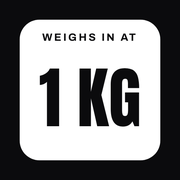
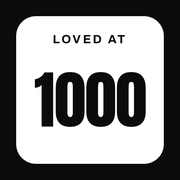
Love brand: sticker, tagline, Gros Cœur

Changed region(s): [[0.1667, 0.3611, 0.8333, 0.7222], [0.0833, 0.0833, 0.9167, 0.9167], [0.2222, 0.1667, 0.75, 0.25]]

diff --git a/fr/index.html b/fr/index.html
@@ -1,22 +1,22 @@
 <!doctype html><html lang="fr-CA"><head><meta charset="utf-8"><meta name="viewport" content="width=device-width,initial-scale=1">
-<title>Kilo — Fais-la peser.</title>
+<title>Kilo — Aime-la plus fort.</title>
 <link rel="canonical" href="https://ymatagne.github.io/kilo-landing/fr/"><link rel="alternate" hreflang="en-CA" href="https://ymatagne.github.io/kilo-landing/"><link rel="alternate" hreflang="fr-CA" href="https://ymatagne.github.io/kilo-landing/fr/"><link rel="alternate" hreflang="x-default" href="https://ymatagne.github.io/kilo-landing/">
-<meta property="og:type" content="website"><meta property="og:site_name" content="Kilo"><meta property="og:title" content="Kilo — Fais-la peser."><meta property="og:description" content="Le réseau bouffe entre chums seulement. Poste ton assiette. Fais-la peser. Rends-les jaloux."><meta property="og:image" content="https://ymatagne.github.io/kilo-landing/og-fr.png"><meta property="og:image:width" content="1200"><meta property="og:image:height" content="630"><meta property="og:image:alt" content="Kilo : Fais-la peser. Une assiette de papdi chaat avec un collant qui dit Aimé à 1180."><meta property="og:url" content="https://ymatagne.github.io/kilo-landing/fr/"><meta property="og:locale" content="fr_CA"><meta property="og:locale:alternate" content="en_CA"><meta name="twitter:card" content="summary_large_image"><meta name="twitter:image" content="https://ymatagne.github.io/kilo-landing/og-fr.png">
-<link rel="icon" href="../favicon.ico" sizes="any"><link rel="icon" type="image/png" sizes="32x32" href="../favicon-32.png"><link rel="apple-touch-icon" href="../apple-touch-icon.png"><meta name="theme-color" content="#0B0B0D"><meta name="description" content="Kilo, le réseau bouffe entre chums seulement. Poste ton assiette. Fais-la peser. Rends-les jaloux.">
+<meta property="og:type" content="website"><meta property="og:site_name" content="Kilo"><meta property="og:title" content="Kilo — Aime-la plus fort."><meta property="og:description" content="Le réseau bouffe entre chums seulement. Poste ton assiette. Aime-la plus fort. Rends-les jaloux."><meta property="og:image" content="https://ymatagne.github.io/kilo-landing/og-fr-v2.png"><meta property="og:image:width" content="1200"><meta property="og:image:height" content="630"><meta property="og:image:alt" content="Kilo : Aime-la plus fort. Une assiette de papdi chaat avec un collant qui dit Aimé à 1180."><meta property="og:url" content="https://ymatagne.github.io/kilo-landing/fr/"><meta property="og:locale" content="fr_CA"><meta property="og:locale:alternate" content="en_CA"><meta name="twitter:card" content="summary_large_image"><meta name="twitter:image" content="https://ymatagne.github.io/kilo-landing/og-fr-v2.png">
+<link rel="icon" href="../favicon.ico" sizes="any"><link rel="icon" type="image/png" sizes="32x32" href="../favicon-32.png"><link rel="apple-touch-icon" href="../apple-touch-icon.png"><meta name="theme-color" content="#0B0B0D"><meta name="description" content="Kilo, le réseau bouffe entre chums seulement. Poste ton assiette. Aime-la plus fort. Rends-les jaloux.">
 <link rel="preconnect" href="https://fonts.googleapis.com"><link rel="preconnect" href="https://fonts.gstatic.com" crossorigin>
 <link href="https://fonts.googleapis.com/css2?family=Anton&family=Archivo:wght@400;500;700&display=swap" rel="stylesheet">
 <link rel="stylesheet" href="../styles.css"></head><body>
 <a class="skip" href="#main">Passer au contenu</a>
-<header class="nav wrap"><a href="#" class="wordmark" aria-label="Accueil Kilo">Kilo <span class="sticker sm" aria-hidden="true"><small>PÈSE</small><b>1 KG</b></span></a>
+<header class="nav wrap"><a href="#" class="wordmark" aria-label="Accueil Kilo">Kilo <span class="sticker sm" aria-hidden="true"><small>AIMÉ À</small><b>1000</b></span></a>
 <div class="nav-r"><nav class="lang" aria-label="Langue"><a href="../" hreflang="en" lang="en">EN</a><a href="./" aria-current="page" hreflang="fr">FR</a></nav><a href="#join" class="btn btn-accent">Sur la liste</a></div></header>
 <main id="main">
 <section class="hero wrap">
- <div class="hero-copy"><p class="eyebrow">Réseau bouffe, entre chums seulement</p><h1>Fais-la peser.</h1>
- <p class="lede">Poste l'assiette. Fais-la peser. Rends-les jaloux.</p>
+ <div class="hero-copy"><p class="eyebrow">Réseau bouffe, entre chums seulement</p><h1>Aime-la plus&nbsp;fort.</h1>
+ <p class="lede">Poste l'assiette. Aime-la plus fort. Rends-les jaloux.</p>
  <p class="quiet">Le réseau bouffe pour ceux qui commandent la deuxième poutine. Pas de calories, pas d'étoiles, pas d'inconnus.</p>
  <div class="row"><a href="#join" class="btn btn-ink">Mets ton nom sur la liste</a><a href="#love" class="btn btn-ghost">Essaie l'Amour</a></div></div>
  <div class="phone" role="img" aria-label="Carte du fil Kilo : Marco a posté un papdi chaat à Toronto, aimé à 1180, Ça vaut la peine : Oui">
-  <div class="phone-in"><div class="pbar"><span class="pt">Les Gros Sacs</span><span class="meta">gang de 6</span></div>
+  <div class="phone-in"><div class="pbar"><span class="pt">Les Gros Cœurs</span><span class="meta">gang de 6</span></div>
    <article class="card"><div class="chead"><span class="av">M</span><div><b>Marco</b><span class="meta">Toronto · 1 h 12</span></div><span class="chip">Ça vaut la peine · Oui</span></div>
    <div class="photo"><picture><source srcset="../hero-plate.webp" type="image/webp"><img src="../hero-plate.jpg" width="800" height="1000" alt="" style="filter:saturate(1.35) contrast(1.15)"></picture><span class="sticker on-photo"><small>AIMÉ À</small><b>1180</b><em>Je marierais cette assiette-là.</em></span></div>
    <p class="dish">Papdi chaat, extra sev</p><div class="acts"><span class="chip on">Jaloux · 5</span><span class="chip">Même place?</span></div></article>
@@ -42,14 +42,14 @@
 <section class="filters" aria-labelledby="f-h"><div class="wrap"><p class="eyebrow dark">Trois filtres. Nommés, pas numérotés.</p><h2 id="f-h">Choisis ton look.</h2>
 <div class="fgrid">
 <figure><div class="photo"><picture><source srcset="../filter-michelin.webp" type="image/webp"><img src="../filter-michelin.jpg" width="1000" height="1000" loading="lazy" decoding="async" alt="Papdi chaat garni de sev, chutney vert et fines herbes sur une grande assiette blanche, filtre Michelin" style="filter:saturate(1.1) contrast(1.35) brightness(.95) hue-rotate(-8deg)"></picture></div><figcaption><h3>Michelin</h3><p>Pinces à épiler non incluses. Un drive-thru a soudainement l'air d'un menu dégustation.</p></figcaption></figure>
-<figure><div class="photo"><picture><source srcset="../filter-potluck.webp" type="image/webp"><img src="../filter-potluck.jpg" width="1000" height="1000" loading="lazy" decoding="async" alt="Taco sur tortilla à la betterave, courge rôtie, crème et fines herbes, filtre Church Potluck" style="filter:sepia(.45) saturate(1.4) brightness(1.08) contrast(.95)"></picture></div><figcaption><h3>Church Potluck</h3><p>Chaud, doré, un peu beige. La matante en a fait trop, et c'est exactement le but.</p></figcaption></figure>
+<figure><div class="photo"><picture><source srcset="../filter-potluck.webp" type="image/webp"><img src="../filter-potluck.jpg" width="1000" height="1000" loading="lazy" decoding="async" alt="Taco sur tortilla à la betterave, courge rôtie, crème et fines herbes, filtre Church Potluck" style="filter:sepia(.45) saturate(1.4) brightness(1.08) contrast(.95)"></picture></div><figcaption><h3>Church Potluck</h3><p>Chaud, doré, un peu beige. La matante l'a fait avec amour, et ça se goûte.</p></figcaption></figure>
 <figure><div class="photo"><picture><source srcset="../filter-3am.webp" type="image/webp"><img src="../filter-3am.jpg" width="1000" height="1000" loading="lazy" decoding="async" alt="Sauté thaï au basilic avec riz et œuf frit, filtre 3am Regret" style="filter:brightness(1.2) contrast(1.6) saturate(1.5)"></picture></div><figcaption><h3>3am Regret</h3><p>Flash de cell, comptoir au néon. Zéro regret pour l'assiette. Quelques-uns pour l'heure.</p></figcaption></figure>
 </div></div></section>
 
 <section class="lovecount wrap" aria-labelledby="w-h"><div><p class="eyebrow">Le décompte d'amour du dimanche</p><h2 id="w-h">Dimanche, 23 h 59. Quelqu'un gagne le titre.</h2>
-<p class="quiet">L'amour de chaque assiette s'additionne. La semaine ferme, la gang est classée, et celui qui a le plus aimé ses assiettes repart avec le titre de Gros Sac de la Semaine. Tout le monde reçoit une carte. Une d'elles est faite pour être postée.</p></div>
-<div class="board" role="table" aria-label="Exemple de décompte d'amour d'une gang"><div class="bhead"><b>Les Gros Sacs</b><span class="meta">Amour total · dim. 23 h 59</span></div>
-<div class="brow champ" role="row"><span>1</span><span><b>Marco</b><small>Gros Sac de la Semaine</small></span><span>6 840</span></div>
+<p class="quiet">L'amour de chaque assiette s'additionne. La semaine ferme, la gang est classée, et celui qui a le plus aimé ses assiettes repart avec le titre de Gros Cœur de la Semaine. Tout le monde reçoit une carte. Une d'elles est faite pour être postée.</p></div>
+<div class="board" role="table" aria-label="Exemple de décompte d'amour d'une gang"><div class="bhead"><b>Les Gros Cœurs</b><span class="meta">Amour total · dim. 23 h 59</span></div>
+<div class="brow champ" role="row"><span>1</span><span><b>Marco</b><small>Gros Cœur de la Semaine</small></span><span>6 840</span></div>
 <div class="brow" role="row"><span>2</span><span><b>Yan</b><small>7 assiettes</small></span><span>6 412</span></div>
 <div class="brow" role="row"><span>3</span><span><b>Amélie</b><small>6 assiettes</small></span><span>5 903</span></div>
 <div class="brow" role="row"><span>4</span><span><b>Dev</b><small>5 assiettes</small></span><span>4 288</span></div>
@@ -71,8 +71,8 @@
 <form id="wl" class="form" novalidate><div class="f"><label for="nm">Nom</label><input id="nm" name="name" autocomplete="given-name" required></div>
 <div class="f"><label for="ct">Courriel ou cell</label><input id="ct" name="contact" autocomplete="email" required></div>
 <button class="btn btn-accent" type="submit">Mets ton nom sur la liste</button><p id="err" class="err" role="alert"></p></form>
-<div id="thanks" class="thanks" hidden tabindex="-1"><span class="sticker"><small>PÈSE</small><b>1 KG</b></span><h3>T'es sur la liste.</h3><p class="quiet">On t'écrit quand Kilo arrive dans ta ville. Commence à réchauffer la gang.</p></div>
+<div id="thanks" class="thanks" hidden tabindex="-1"><span class="sticker"><small>AIMÉ À</small><b>1000</b></span><h3>T'es sur la liste.</h3><p class="quiet">On t'écrit quand Kilo arrive dans ta ville. Commence à réchauffer la gang.</p></div>
 </section></main>
-<footer class="foot wrap"><a href="#" class="wordmark" aria-label="Accueil Kilo">Kilo <span class="sticker sm" aria-hidden="true"><small>PÈSE</small><b>1 KG</b></span></a>
+<footer class="foot wrap"><a href="#" class="wordmark" aria-label="Accueil Kilo">Kilo <span class="sticker sm" aria-hidden="true"><small>AIMÉ À</small><b>1000</b></span></a>
 <p class="meta">A commencé comme une joke de groupe de discussion appelée Instakilogram. Les avocats avaient des commentaires. Maintenant, c'est Kilo.</p><p class="meta">© 2026 Kilo · Toronto · Montréal</p></footer>
 <script src="../app.js"></script></body></html>

diff --git a/index.html b/index.html
@@ -1,22 +1,22 @@
 <!doctype html><html lang="en"><head><meta charset="utf-8"><meta name="viewport" content="width=device-width,initial-scale=1">
-<title>Kilo — Make it heavier.</title>
+<title>Kilo — Love it harder.</title>
 <link rel="canonical" href="https://ymatagne.github.io/kilo-landing/"><link rel="alternate" hreflang="en-CA" href="https://ymatagne.github.io/kilo-landing/"><link rel="alternate" hreflang="fr-CA" href="https://ymatagne.github.io/kilo-landing/fr/"><link rel="alternate" hreflang="x-default" href="https://ymatagne.github.io/kilo-landing/">
-<meta property="og:type" content="website"><meta property="og:site_name" content="Kilo"><meta property="og:title" content="Kilo — Make it heavier."><meta property="og:description" content="The friends-only food network. Post the plate. Make it heavier. Make them jealous."><meta property="og:image" content="https://ymatagne.github.io/kilo-landing/og.png"><meta property="og:image:width" content="1200"><meta property="og:image:height" content="630"><meta property="og:image:alt" content="Kilo: Make it heavier. A plate of papdi chaat with a sticker reading Loved at 1180."><meta property="og:url" content="https://ymatagne.github.io/kilo-landing/"><meta property="og:locale" content="en_CA"><meta property="og:locale:alternate" content="fr_CA"><meta name="twitter:card" content="summary_large_image"><meta name="twitter:image" content="https://ymatagne.github.io/kilo-landing/og.png">
-<link rel="icon" href="favicon.ico" sizes="any"><link rel="icon" type="image/png" sizes="32x32" href="favicon-32.png"><link rel="apple-touch-icon" href="apple-touch-icon.png"><meta name="theme-color" content="#0B0B0D"><meta name="description" content="Kilo is the friends-only food network. Post the plate. Make it heavier. Make them jealous.">
+<meta property="og:type" content="website"><meta property="og:site_name" content="Kilo"><meta property="og:title" content="Kilo — Love it harder."><meta property="og:description" content="The friends-only food network. Post the plate. Love it harder. Make them jealous."><meta property="og:image" content="https://ymatagne.github.io/kilo-landing/og-v2.png"><meta property="og:image:width" content="1200"><meta property="og:image:height" content="630"><meta property="og:image:alt" content="Kilo: Love it harder. A plate of papdi chaat with a sticker reading Loved at 1180."><meta property="og:url" content="https://ymatagne.github.io/kilo-landing/"><meta property="og:locale" content="en_CA"><meta property="og:locale:alternate" content="fr_CA"><meta name="twitter:card" content="summary_large_image"><meta name="twitter:image" content="https://ymatagne.github.io/kilo-landing/og-v2.png">
+<link rel="icon" href="favicon.ico" sizes="any"><link rel="icon" type="image/png" sizes="32x32" href="favicon-32.png"><link rel="apple-touch-icon" href="apple-touch-icon.png"><meta name="theme-color" content="#0B0B0D"><meta name="description" content="Kilo is the friends-only food network. Post the plate. Love it harder. Make them jealous.">
 <link rel="preconnect" href="https://fonts.googleapis.com"><link rel="preconnect" href="https://fonts.gstatic.com" crossorigin>
 <link href="https://fonts.googleapis.com/css2?family=Anton&family=Archivo:wght@400;500;700&display=swap" rel="stylesheet">
 <link rel="stylesheet" href="styles.css"></head><body>
 <a class="skip" href="#main">Skip to content</a>
-<header class="nav wrap"><a href="#" class="wordmark" aria-label="Kilo home">Kilo <span class="sticker sm" aria-hidden="true"><small>WEIGHS IN AT</small><b>1 KG</b></span></a>
+<header class="nav wrap"><a href="#" class="wordmark" aria-label="Kilo home">Kilo <span class="sticker sm" aria-hidden="true"><small>LOVED AT</small><b>1000</b></span></a>
 <div class="nav-r"><nav class="lang" aria-label="Language"><a href="./" aria-current="page" hreflang="en">EN</a><a href="fr/" hreflang="fr" lang="fr">FR</a></nav><a href="#join" class="btn btn-accent">Get on the list</a></div></header>
 <main id="main">
 <section class="hero wrap">
- <div class="hero-copy"><p class="eyebrow">Friends-only food network</p><h1>Make it heavier.</h1>
- <p class="lede">Post the plate. Make it heavier. Make them jealous.</p>
+ <div class="hero-copy"><p class="eyebrow">Friends-only food network</p><h1>Love it harder.</h1>
+ <p class="lede">Post the plate. Love it harder. Make them jealous.</p>
  <p class="quiet">The food network for people who order the second poutine. No calories, no stars, no strangers.</p>
  <div class="row"><a href="#join" class="btn btn-ink">Get on the list</a><a href="#love" class="btn btn-ghost">Try the Love slider</a></div></div>
  <div class="phone" role="img" aria-label="Kilo feed card: Marco posted papdi chaat in Toronto, loved at 1180, Worth it: Oui">
-  <div class="phone-in"><div class="pbar"><span class="pt">Les Gros Sacs</span><span class="meta">crew of 6</span></div>
+  <div class="phone-in"><div class="pbar"><span class="pt">Les Gros Cœurs</span><span class="meta">crew of 6</span></div>
    <article class="card"><div class="chead"><span class="av">M</span><div><b>Marco</b><span class="meta">Toronto · 1:12 am</span></div><span class="chip">Worth it · Oui</span></div>
    <div class="photo"><picture><source srcset="hero-plate.webp" type="image/webp"><img src="hero-plate.jpg" width="800" height="1000" alt="" style="filter:saturate(1.35) contrast(1.15)"></picture><span class="sticker on-photo"><small>LOVED AT</small><b>1180</b><em>Would marry this plate.</em></span></div>
    <p class="dish">Papdi chaat, extra sev</p><div class="acts"><span class="chip on">Jealous · 5</span><span class="chip">Same place?</span></div></article>
@@ -42,14 +42,14 @@
 <section class="filters" aria-labelledby="f-h"><div class="wrap"><p class="eyebrow dark">Three filters. Named, not numbered.</p><h2 id="f-h">Pick a look.</h2>
 <div class="fgrid">
 <figure><div class="photo"><picture><source srcset="filter-michelin.webp" type="image/webp"><img src="filter-michelin.jpg" width="1000" height="1000" loading="lazy" decoding="async" alt="Papdi chaat piled with sev, green chutney and herbs on a wide white plate, in the Michelin filter" style="filter:saturate(1.1) contrast(1.35) brightness(.95) hue-rotate(-8deg)"></picture></div><figcaption><h3>Michelin</h3><p>Tweezers not included. Makes a drive-through look like it had a tasting menu.</p></figcaption></figure>
-<figure><div class="photo"><picture><source srcset="filter-potluck.webp" type="image/webp"><img src="filter-potluck.jpg" width="1000" height="1000" loading="lazy" decoding="async" alt="Beet tortilla taco with roasted squash, crema and herbs, in the Church Potluck filter" style="filter:sepia(.45) saturate(1.4) brightness(1.08) contrast(.95)"></picture></div><figcaption><h3>Church Potluck</h3><p>Warm, golden, slightly beige. Somebody's aunt made too much and that is the point.</p></figcaption></figure>
+<figure><div class="photo"><picture><source srcset="filter-potluck.webp" type="image/webp"><img src="filter-potluck.jpg" width="1000" height="1000" loading="lazy" decoding="async" alt="Beet tortilla taco with roasted squash, crema and herbs, in the Church Potluck filter" style="filter:sepia(.45) saturate(1.4) brightness(1.08) contrast(.95)"></picture></div><figcaption><h3>Church Potluck</h3><p>Warm, golden, slightly beige. Somebody's aunt made it with love, and you can taste it.</p></figcaption></figure>
 <figure><div class="photo"><picture><source srcset="filter-3am.webp" type="image/webp"><img src="filter-3am.jpg" width="1000" height="1000" loading="lazy" decoding="async" alt="Thai basil stir-fry with rice and a fried egg, in the 3am Regret filter" style="filter:brightness(1.2) contrast(1.6) saturate(1.5)"></picture></div><figcaption><h3>3am Regret</h3><p>Phone flash, fluorescent counter, zero regrets about the plate. Some about the time.</p></figcaption></figure>
 </div></div></section>
 
 <section class="lovecount wrap" aria-labelledby="w-h"><div><p class="eyebrow">Sunday love count</p><h2 id="w-h">23:59 Sunday. Somebody gets the title.</h2>
-<p class="quiet">Every plate's love adds up. The week closes, the crew is ranked, and whoever loved their plates the hardest takes home Gros Sac de la Semaine. Everyone gets a card. One of them is made to be posted.</p></div>
-<div class="board" role="table" aria-label="Sample crew love count"><div class="bhead"><b>Les Gros Sacs</b><span class="meta">Total love · Sun 23:59</span></div>
-<div class="brow champ" role="row"><span>1</span><span><b>Marco</b><small>Gros Sac de la Semaine</small></span><span>6 840</span></div>
+<p class="quiet">Every plate's love adds up. The week closes, the crew is ranked, and whoever loved their plates the hardest takes home Gros Cœur de la Semaine. Everyone gets a card. One of them is made to be posted.</p></div>
+<div class="board" role="table" aria-label="Sample crew love count"><div class="bhead"><b>Les Gros Cœurs</b><span class="meta">Total love · Sun 23:59</span></div>
+<div class="brow champ" role="row"><span>1</span><span><b>Marco</b><small>Gros Cœur de la Semaine</small></span><span>6 840</span></div>
 <div class="brow" role="row"><span>2</span><span><b>Yan</b><small>7 plates</small></span><span>6 412</span></div>
 <div class="brow" role="row"><span>3</span><span><b>Amélie</b><small>6 plates</small></span><span>5 903</span></div>
 <div class="brow" role="row"><span>4</span><span><b>Dev</b><small>5 plates</small></span><span>4 288</span></div>
@@ -71,8 +71,8 @@
 <form id="wl" class="form" novalidate><div class="f"><label for="nm">Name</label><input id="nm" name="name" autocomplete="given-name" required></div>
 <div class="f"><label for="ct">Email or phone</label><input id="ct" name="contact" autocomplete="email" required></div>
 <button class="btn btn-accent" type="submit">Get on the list</button><p id="err" class="err" role="alert"></p></form>
-<div id="thanks" class="thanks" hidden tabindex="-1"><span class="sticker"><small>WEIGHS IN AT</small><b>1 KG</b></span><h3>You're on the list.</h3><p class="quiet">We'll text when Kilo lands in your city. Start warming up the crew.</p></div>
+<div id="thanks" class="thanks" hidden tabindex="-1"><span class="sticker"><small>LOVED AT</small><b>1000</b></span><h3>You're on the list.</h3><p class="quiet">We'll text when Kilo lands in your city. Start warming up the crew.</p></div>
 </section></main>
-<footer class="foot wrap"><a href="#" class="wordmark" aria-label="Kilo home">Kilo <span class="sticker sm" aria-hidden="true"><small>WEIGHS IN AT</small><b>1 KG</b></span></a>
+<footer class="foot wrap"><a href="#" class="wordmark" aria-label="Kilo home">Kilo <span class="sticker sm" aria-hidden="true"><small>LOVED AT</small><b>1000</b></span></a>
 <p class="meta">Started life as a group-chat joke called Instakilogram. The lawyers had notes. Now it's Kilo.</p><p class="meta">© 2026 Kilo · Toronto · Montréal</p></footer>
 <script src="app.js"></script></body></html>
